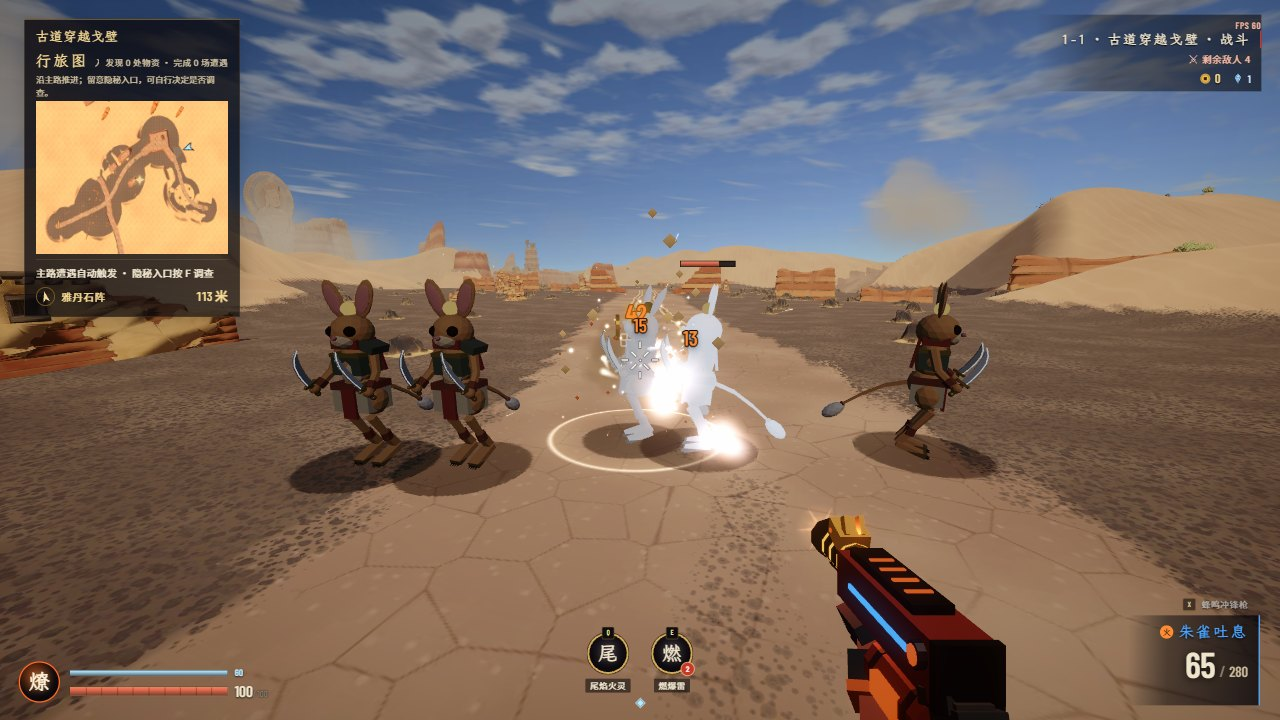
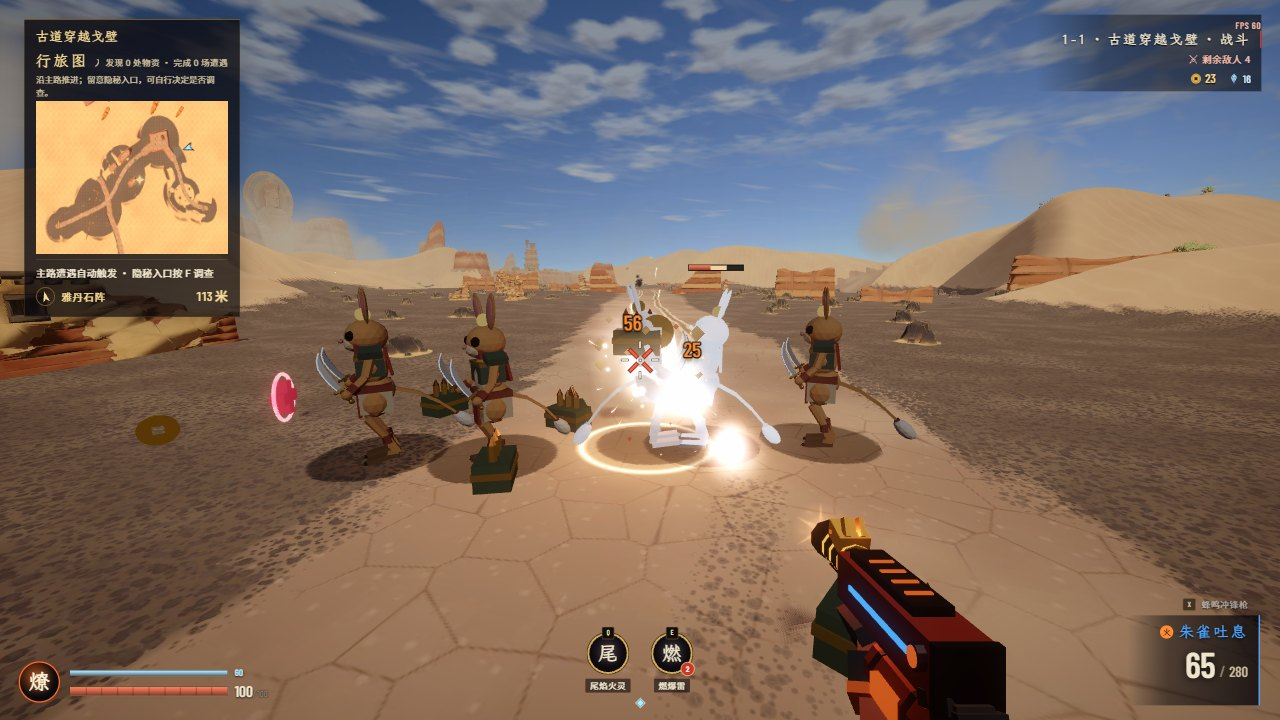
docs: M8 复审修正——4.6 记死亡传电选目标、格挡提示、货币叫法、rebase 后的对照测试改动；实机整轮 42 / 42
- 4.6：带电那行补 Unity Nearest 选目标；免疫那行补「格挡」提示与没被格挡的 0 伤害不弹字；新增第 7 条（master 的 unity-* 测试随改、todo 转断言）与第 8 条（货币叫灵石）
- 验证段落如实写：上一轮整轮是 38 / 39（喷火锥项改脚本后只单独重跑过），这一轮改过的脚本整轮重跑 42 / 42、零报错；npm test 1129 项 0 失败、todo 12 → 6
- 7.1 / 7.2：FireModeTests / Ch4Foundation / 秘卷 119 张；M13 不一致清单里落在 M8 的五条标 ✅，货币一行只剩 src/ui
- m8-shots 加三段：死亡传电选目标（7.4 m 传、8 m + 0.6 × 半径不传）、格挡浮字（截图 m8-blocked.jpg）、宝箱提示 / 奖励名写灵石；喷火锥截图随整轮重拍

diff --git a/docs/threejs-migration.md b/docs/threejs-migration.md
@@ -83,7 +83,7 @@ Unity 编辑器 ──bridge.sh webgameplay──▶ public/assets/unity-gamepla
 | M5 | 敌人框架增量 + 沙魇 + 第四章敌人并入主框架 | ~8k（多数是对照） | ✅ 2026-11-18（a1d71b84、b4d5e683、92dcc729），对照清单见 4.4：新增受击四层（`enemies/HitReaction.ts`）、迅捷龙卷（`EliteTornado.ts`）、出场位移（`SpawnEntrance.ts`，导演刷群接上）、词缀接管；照 Unity 改了出生 0.7 s 不可选中、击退推力 / 上抛、前摇 1/√攻速（35 处按最小比例）、名额回收死者、词缀取词过排除表、5 个敌人常量；沙魇照 SandWraithAI 重写（原来跑的是跳鼠刀兵的名册）；第四章经 `PlateauFoeAdapter` 接主框架（伤害倍率、全局名额、精英体型 / 金环 / 词缀、元素眩晕、减速、击退、脱战）。对照测试 `tests/enemy-framework.test.mjs`（常量读 C# 源码比）。待办：坠落回收照 Unity（等导航补高度）、EliteStrike / 金环纹样 / 词缀演出 / 变体着色（M11）、嘲讽（M9）、PerchPoint 导出 |
 | M6 | 首领框架 + 登场镜头 + 旱魃 + 魔将 v2 + 鲲鹏 / 麒麟数值阶段 + 三领主 | ~20k | 🔶 首领框架（`src/enemies/bosses/framework/`：BossDef 定档 / 阶段表、BossBrain、BossMove、破防条、召唤上限、领主梯度、倒下演出、时间缩放仲裁、关卡钩子）、登场演出导演（`bosses/intro/`）、旱魃全套 ✅ 2026-11-17（87cd9188…fed45ef1；对照测试 `tests/hanba-boss.test.mjs`、`tests/boss-intro.test.mjs`；实机脚本 `scripts/hanba/fight-shots.mjs`）。1-4 走进泉床正常触发（c33c5467）。火麒麟 / 鲲鹏 ✅ 2026-11-18（0c0168ff…07ebf638：火麒麟定档 28000 + 2400 护甲、85 / 70 / 55% 刻度、狂怒长啸 / 熔流轮转 / 鳞冠；鲲鹏定档 16000 + 4800 护盾、75 / 50 / 25% 鲲怒 / 化鹏 / 鹏狂怒；对照测试 `tests/qilin-boss.test.mjs`、`tests/kunpeng-boss.test.mjs`；实机脚本 `scripts/kunpeng/fight-shots.mjs`、火麒麟同目录）。魔将 v2 ✅ 2026-11-18（0d97befe…b288e282：九招、高台砸落登场、狂怒换挡、零星陨石，`WarlordPoser.ts` 按 Blender 姿势表在网页现场烘焙 v006 骨架的手 K 片段，释放帧等片段事件；对照测试 `tests/warlord-boss.test.mjs` 42 条；实机脚本 `scripts/warlord/fight-shots.mjs`）。2-4 / 3-3 走关卡正常触发：Unity 首领场（`boss:`）照 `BossEncounter.PlayerInArena` 不看视线；3-3 的矩形首领场半径盖到高台出生点。4-1 三领主进首领框架 + 据点模式 ✅ 2026-11-19（113789d6、f85f8715）：`src/enemies/bosses/lords/`——领主底座（LordDef 4-1 难度 3.4 定档、tempo 0.9 / 0.75 × 领主梯度；LordBrain 片段按设计时长拉伸、片段事件出手、顿帧只顿首领、招式驱动位移、弱点开关、死亡演出交给登场导演播；LordMove）；飞廉七招 + 擂台风 + 风雷珠珠碎 + 龙卷风柱（柱身可点火）+ 风涡柱；化蛇六招 + 圣湖游线 / 涨水面 / 泡水 / 漩涡 / 湿身雷殛；夔八招（不依赖雷暴的部分）+ 残鼓（导出位置错 112 m，挪回出生点）+ 召鼓，落雷 / 导体回劈 / 高原雷暴经 `lords/KuiStorm.ts` 的 `bindKuiStorm` 接 M7（`MechanismSystem` 建好雷暴后绑定，fc87b69b；4-1 实机：登场雷劈经幡杆、二阶段压暗下雨）；框架补破防条条件填充（BreakBarDef.fillWhen）。据点模式：`scripts/web/export-level-objectives.mjs` 从场景 YAML 导出 `objectives.json`（灵火坛 / LevelObjective / BossEncounter / ZheduoLevel 门槛圆），`src/world/objectives/`（SpiritAltar、LevelObjectives）——领主战不是终点战，倒下 6.3 s 后结算并点亮本据点灵火，6 座里点亮任意 3 座才清关开出口（4-3 同样 5 选 3）。对照测试 `tests/lord-bosses.test.mjs`（照 LordTests.cs）；实机脚本 `scripts/lords/fight-shots.mjs`。待办：夔的落雷 / 经幡杆带电与回劈 / 高原雷暴 / 召鼓充电（M7 合进来后 bindKuiStorm）；二阶段起带电（Charge.Hold，M8）；化蛇湿身灼烧减半（M8 状态）；飞廉的风接全局 WindField、顺风逆风步速（M7）；镜像片段 sidestepL / wheelR 与夔的 sink 没导出（退回 sidestep / wheel / kneel）；目标栏文字（界面）；邪飞天的和弦护盾 / 赐福；首领特效（旱魃日火贴花 / 水幕沙幕，鲲鹏浪墙 / 扶摇柱 / 水冠，火麒麟火浪，魔将火尾 / 火舌体积、`T_Boss_Warlord_E` 发光遮罩、登场转场风）随 M11b；鲲鹏 / 火麒麟换动画片段与首领顿帧随 M12；魔将熔铜渠涨落已接 3-3 神范台的熔铜渠（fc87b69b：引渠 + 每段 hazard 预警、倒下退渠；渠里冒泡 / 涌浪外观随 M11b） |
 | M7 | 地图机关：熔岩 v2、流沙 / 地表 / 边界 / 可破坏 / 断桥 / 风场、天气、各图专属脚本 | ~10k | 🔶 2026-11-19：导出（`scripts/web/export-mechanisms.mjs` 直接解析场景 YAML → `mechanisms.json` + 软边界距离场）、运行时（`src/world/mechanisms/`，UnitySceneView 搭好后建）、对照测试 `tests/unity-mechanisms.test.mjs`、实机脚本 `scripts/web/mechanism-shots.mjs` ✅；清单、差异与待办见 4.5 |
-| M8 | 玩家与战斗增量：战斗契约（灵宠伤害源、弱点倍率、命中区）、状态（寒意 / 引燃 / 日灼，带电随第四章）、弹体（弱点判定、护罩、落地滚动）、镜头手感 / 卡帧 / 安全落点 / 移动特效、武器（散布手调、冲刺禁射、喷火锥、磁轨光束）、技能（施法姿势、特效换风格） | ~12k | ✅ 2026-11-21（77c8389a、4cfc4480、edb3eca8、90a3aa72），对照清单见 4.6：战斗契约（灵宠伤害源只做类型与接口、弱点伤害 + 秘卷「破绽」、命中区、不可选中返回 immune 并节流派发受击事件）、带电 + 死亡传电 + 领主常驻带电、顿帧、多挡弹区 + 球罩、落地滚动、镜头手感（trauma² 震屏、受击冲击按来向、开枪一顿、阵亡倒地）、移动特效、坠落托回安全点、玩家减益（寒意 / 点燃 / 日晒，敌人侧入口已转过来）、武器（扳机闩、冲刺禁射、开镜规则、散布手调、镜头后坐 × 0.3 完全回正、光束共用冷却、喷火锥、贯虹虹光）、技能（施法姿势、拒绝事件、出手点、磐的挡弹罩 / 贴地起跳 / 锁冲刺）。焚雷扩散取最近 16 个。M13 对照测试对出、落在 M8 的五条全部照 Unity 改完（4.6「M13 对出的不一致」）。对照测试 `tests/m8-combat.test.mjs` / `m8-player.test.mjs` / `m8-weapons.test.mjs` / `m8-parity.test.mjs`（48 项，常量读 C# 源码比）；实机脚本 `scripts/web/m8-shots.mjs`。待办见 4.6 末尾 |
+| M8 | 玩家与战斗增量：战斗契约（灵宠伤害源、弱点倍率、命中区）、状态（寒意 / 引燃 / 日灼，带电随第四章）、弹体（弱点判定、护罩、落地滚动）、镜头手感 / 卡帧 / 安全落点 / 移动特效、武器（散布手调、冲刺禁射、喷火锥、磁轨光束）、技能（施法姿势、特效换风格） | ~12k | ✅ 2026-11-21（77c8389a、4cfc4480、edb3eca8、90a3aa72），对照清单见 4.6：战斗契约（灵宠伤害源只做类型与接口、弱点伤害 + 秘卷「破绽」、命中区、不可选中返回 immune 并节流派发受击事件）、带电 + 死亡传电 + 领主常驻带电、顿帧、多挡弹区 + 球罩、落地滚动、镜头手感（trauma² 震屏、受击冲击按来向、开枪一顿、阵亡倒地）、移动特效、坠落托回安全点、玩家减益（寒意 / 点燃 / 日晒，敌人侧入口已转过来）、武器（扳机闩、冲刺禁射、开镜规则、散布手调、镜头后坐 × 0.3 完全回正、光束共用冷却、喷火锥、贯虹虹光）、技能（施法姿势、拒绝事件、出手点、磐的挡弹罩 / 贴地起跳 / 锁冲刺）。焚雷扩散取最近 16 个。M13 对照测试对出、落在 M8 的五条全部照 Unity 改完（4.6「M13 对出的不一致」）。复审后（2b51eaee…）：死亡传电照 Unity `Nearest` 选目标、命中区整发格挡弹「格挡」、局内货币统一叫灵石（`src/ui` 除外）；rebase 到 master 后 `tests/unity-*.test.mjs` 七处随改、能转的 todo 转成断言。对照测试 `tests/m8-combat.test.mjs` / `m8-player.test.mjs` / `m8-weapons.test.mjs` / `m8-parity.test.mjs`（常量读 C# 源码比）；实机脚本 `scripts/web/m8-shots.mjs`。待办见 4.6 末尾 |
 | M9 | 灵宠（全新） | 4.1k | ⬜ |
 | M10 | 第一人称持枪手感 + 碎刃表现 | 5.8k | ⬜ |
 | M11a | 渲染观感：StylizedLit / Terrain / Foliage / Fur 着色、材质参数导入、后处理栈、三色环境光 / 雾 / 天空、CSM | 7.6k 着色器 | 🔶 材质 ✅ 2026-11-16（1f213358，`src/world/UnityStylizedLit.ts`：色阶、阴影染色、阶梯高光、边缘光、地形高度混合 / 宏观噪声 / 坡度压暗 / 陡坡三向投影、植被风摆与背光透射，Trilight 投成 SH 环境光）；太阳阴影照 Unity 管线（0564dd10，2048 贴图、90 m、跟相机）；云天 + 逆光光柱接入（52c719c6）；后处理栈 ✅ 2026-11-18（646f7eae，`src/render/PostStack.ts`：HDR 目标 + URP Bloom + 照 URP Color.hlsl 写的 Neutral + 每关 Volume 调色烘 LUT + 暗角 + 色差 + 低血 / 受击 / 冲刺玩法屏效；`scripts/web/export-volume-profiles.mjs` 从 27 份 Profile 导出 `volumes.json`，含 3-3 火神王座局部 Volume 的盒子混合；`?post=0` 或低画质绕开）。待办：AO、3-3 第一人称手被泛光吹白、1-2 比 Unity 偏灰（大气在 ACES 下调的，要按 Neutral 重调）、Fur、导出器补 `_ORMMap` / 关键字 / 地形材质参数、流动雾带与小活物逐图摆位 |
@@ -249,12 +249,12 @@ Unity 的九种雷魅是照网页 `world/plateau/play/foes.ts` 译的（`Plateau
 | 弱点规则 `WeakpointRule`：先进身体、往前 1.5 m 内穿过同一单位的弱点按弱点算（命中扫描、投射物同一条） | `EnemyBase.raycastHit`、`Projectiles` 的敌人命中、`HitZone.weakHit` | 🔧（原来是「身体明显更近才算身体」） |
 | 贴脸：射线起点在敌人胶囊里直接算命中 | `rayVerticalCapsule` 起点在圆柱内返回 0 | ✅ |
 | 暴击 / 属性乘区 / 雷殛标记 ×1.15 / 输出修饰器 / 分层 / 吸血上限 5%（≥ 2）/ 爆炸嵌套上限 6 / 爆炸波及玩家 | `Combat.ts`、`DamageCalc.ts`、`Blast.ts` | ✅ |
-| 免疫 `Combat.Immune`：打不可选中的敌人返回 `DamageResult.immune = true`（不结算），直接命中 0.4 s 节流地派发 `EnemyDamaged`；持续伤害跳伤 / 处决 / 0 伤害不提示；格挡掉全部伤害（total 0、blocked）也派发 | `Combat.damageEnemy` 第 0 步返回 `immune` 结果（原来返回 null、不派发）；`DamageResult.immune`；命中计数 / 引爆 / 词条 / 斩击 / 技能冲击波 / 反应的调用方跳过 immune；天雷引、引子三卷照 Unity 加「total > 0」 | 🔧（M13 对出） |
+| 免疫 `Combat.Immune`：打不可选中的敌人返回 `DamageResult.immune = true`（不结算），直接命中 0.4 s 节流地派发 `EnemyDamaged`；持续伤害跳伤 / 处决 / 0 伤害不提示；格挡掉全部伤害（total 0、blocked）也派发，`DamageNumbers` 弹「格挡」（`blocked && total < 1`，处决不弹）；没被格挡的 0 伤害不派发、不弹字 | `Combat.damageEnemy` 第 0 步返回 `immune` 结果（原来返回 null、不派发）；`DamageResult.immune`；命中计数 / 引爆 / 词条 / 斩击 / 技能冲击波 / 反应的调用方跳过 immune；天雷引、引子三卷照 Unity 加「total > 0」；`Feedback.blocked` 弹「格挡」（`DamageNumberOpts` 没有这一种，按世界浮字出），没被格挡的 0 伤害原来弹「免疫」、现在不弹 | 🔧（M13 对出；格挡提示复审补） |
 | 焚雷扩散灼烧 `CombatTuning.Thunderfire.SpreadTargets = 16`：身体中心在 R 内、按距离取最近 16 个（C# 注释写明是有意改的） | `Reactions.runThunderfire`、`TF_SPREAD_TARGETS` | 🔧（原来半径内全部；M13 对出） |
 | 击杀结算 `KillResolver`：精英魂晶 ×5、首领 60、精英死亡震屏（半径 2、×0.8）、静默处决没有战果 | `Combat.ts` | ✅ |
 | 状态 `Burn / Shock / Corrode / Stun / Slow` 与四种反应、引爆 / 崩解、预算（`CombatTuning.cs`） | `Status.ts`、`Reactions.ts` | ✅ 数值逐项读 C# 比 |
 | `StatusId` 一个枚举 8 项 + `StatusRegistry` 按宿主登记（寒意 / 日晒 / 点燃只挂玩家） | 敌人 `StatusId`（5 项）+ 玩家 `PlayerStatusId`（3 项，`player/PlayerStatus.ts`） | 结构不同、集合相同（`tests/m8-parity.test.mjs` 锁住） |
-| 带电 `Charge` / `ChargeState`：计时取较大者、常驻持有、就反应而言 = 有雷殛、死亡向 8 m 内最近 2 个同伴传电（带电 6 s、6 点雷伤、深度 1），连锁 ≤ 4 跳，首领不接不放 | `combat/Charge.ts`（`ChargeBook` / `ChargeSystem`），`Reactions` 经 `host.isCharged` 读 | ➕ |
+| 带电 `Charge` / `ChargeState`：计时取较大者、常驻持有、就反应而言 = 有雷殛、死亡向 8 m 内最近 2 个同伴传电（带电 6 s、6 点雷伤、深度 1），连锁 ≤ 4 跳，首领不接不放；选目标 `ReactionSystem.Nearest(c, 8, ArcTargets + 2)`：身体中心 ≤ 8 m（不加敌人半径），只看最近 4 个候选、首领占名额再跳过 | `combat/Charge.ts`（`ChargeBook` / `ChargeSystem`，选目标 `arcCandidates`），`Reactions` 经 `host.isCharged` 读 | ➕；选目标复审时照 `Nearest` 改（原来按 `queryRadius` 的「8 m + 半径」、在全部候选里取） |
 | 同上：夔一直带电；飞廉二阶段起、风雷珠在时带电；高原敌自己的带电 | `lords/Kui.ts`、`lords/Feilian.ts`（鸭子类型拿 `ctx.combat.charge`）、`PlateauFoeAdapter.foeCharged` | ➕ |
 | 同上：落雷把落点敌人充上电（`LightningStrike` → `Charge.Apply`） | `world/mechanisms/Storm.ts` 仍挂雷殛 | ⬜ 那个目录本期不能改：把第 204 行换成 `chargeSystem(ctx)?.apply(e, o.chargeFoes)` 即可 |
 | 同上：边缘光换紫红雷光 + 贴身短电弧 | 贴身紫红小电火花（全场每秒 14 下） | ⬜ 边缘光随 M11b |
@@ -316,18 +316,20 @@ Unity 的九种雷魅是照网页 `world/plateau/play/foes.ts` 译的（`Plateau
 | 技能特效「换风格」（HC3：卡通火苗、纸灰地火、去掉叠在爆炸上的闪光） | 网页自己的分层特效（fx-style 第五节：法印、火舌、炭火） | 保留网页：同一份准则下各做的一版，换粒子引擎时一起对（M11b） |
 | 身体被锁（下沉、硬直）时不能放技能 | 无 | ⬜ 网页的下沉在 M7 的 SafeGround 里，没有统一的身体锁；随 M11d 的输入门 |
 
-**M13 对出的不一致（本期改法，master 上 `tests/unity-*.test.mjs` 的 todo 合并后可转断言）**：
+**M13 对出的不一致（本期改法；rebase 到 master 后 `tests/unity-*.test.mjs` 的对应断言与 todo 一并改好，见第 7 条）**：
 
-1. 弱点伤害%：`StatKey` 加 `weakpointDamagePct`，`Combat.damageEnemy` 弱点（含白泽改判）另乘它（77c8389a）；`defsOffense.ts` 表尾加「破绽」`weak_point`（精良、3 层、`['暴击']`、「弱点伤害每层 +15%。」），秘卷 118 → 119 张，进攻 24 → 25 张（前 24 张顺序不动）。`unity-scrolls` 的「Unity 多一张」断言、`unity-damage-calc` 的「网页缺 weakpointDamagePct / petDamagePct」断言要随之改成「两边相同」。
+1. 弱点伤害%：`StatKey` 加 `weakpointDamagePct`，`Combat.damageEnemy` 弱点（含白泽改判）另乘它（77c8389a）；`defsOffense.ts` 表尾加「破绽」`weak_point`（精良、3 层、`['暴击']`、「弱点伤害每层 +15%。」），秘卷 118 → 119 张（`DESIGN.md` 第 10 节同步），进攻 24 → 25 张（前 24 张顺序不动）。
 2. 灵宠伤害源：`DamageSource` 加 `'pet'`、`StatKey` 加 `petDamagePct`；`isPetHit` 时属性只乘 `petDamagePct`、不掷随机暴击（`forceCrit` 照常），见 `combat/PetContract.ts`（77c8389a）。
-3. 免疫提示：`Combat.damageEnemy` 打不可选中的敌人返回 `{ immune: true, dealt: 0, isCrit: false, killed: false, layer: 'health' }`（原来返回 null），直接命中按 `IMMUNE_FEEDBACK_GAP = 0.4` s / 敌人节流，放行的那一次弹「免疫」并派发 `enemy:damaged`；持续伤害跳伤 / 处决 / 0 伤害不提示；整发被命中区格挡（effective 0、blocked）也派发（Unity `total > 0 || immune || blocked`）。`DamageResult` 加 `immune?`。用返回值算命中的调用方（爆炸、技能冲击波、碎刃斩击 / 刃群、满蓄引爆、反应 `hit()`、封脉导流）跳过 immune；武器词条 `AffixEffects.onDamaged` 照 Unity 跳过 immune；天雷引、引子三卷照 Unity 加「total > 0」。已死的敌人仍返回 null（Unity `default`）。
+3. 免疫提示：`Combat.damageEnemy` 打不可选中的敌人返回 `{ immune: true, dealt: 0, isCrit: false, killed: false, layer: 'health' }`（原来返回 null），直接命中按 `IMMUNE_FEEDBACK_GAP = 0.4` s / 敌人节流，放行的那一次弹「免疫」并派发 `enemy:damaged`；持续伤害跳伤 / 处决 / 0 伤害不提示；整发被命中区格挡（effective 0、blocked）也派发（Unity `total > 0 || immune || blocked`）。`DamageResult` 加 `immune?`。用返回值算命中的调用方（爆炸、技能冲击波、碎刃斩击 / 刃群、满蓄引爆、反应 `hit()`、封脉导流）跳过 immune；武器词条 `AffixEffects.onDamaged` 照 Unity 跳过 immune；天雷引、引子三卷照 Unity 加「total > 0」。已死的敌人仍返回 null（Unity `default`）。复审补：整发被格挡弹「格挡」不弹「免疫」，没被格挡的 0 伤害不派发不弹字（同 Unity）；「免疫不算命中」的测试改成真调用（爆炸 / 冲击波 / 封脉导流 / 反应打中心 / 满蓄引爆 / 词条 / 刃群，逐个把 `!r.immune` 改回去都会红）。
 4. 玩家减益：寒意 / 点燃 / 日晒在 `player/PlayerStatus.ts`（4cfc4480）。Unity 是一个 `StatusId`（8 项）+ 按宿主登记，网页是敌人 `StatusId`（5 项）+ 玩家 `PlayerStatusId`（3 项），集合相同；`ChillTakesStrongest…` / `IgniteTicks…` 在 `m8-player.test.mjs`，`SunburnStacks…` 在 `hanba-boss.test.mjs`，`EveryStatusHasOneDefinition` 的对应断言在 `m8-parity.test.mjs`。
-5. 焚雷扩散灼烧：`Reactions.runThunderfire` 照 `ReactionSystem.Nearest` 取身体中心在 R 内、按距离最近的 `TF_SPREAD_TARGETS = 16` 个（原来半径内全部，且按 queryRadius 的「R + 敌人半径」算）。
+5. 焚雷扩散灼烧：`Reactions.runThunderfire` 照 `ReactionSystem.Nearest` 取身体中心在 R 内、按距离最近的 `TF_SPREAD_TARGETS = 16` 个（原来半径内全部，且按 queryRadius 的「R + 敌人半径」算）。带电死亡传电的选目标是同一类偏差，复审时一并照 `Nearest` 改了（上表带电那行）。
 6. 解析结果的弹速：不改，见武器表最后一行。
+7. rebase 到 master（23b57e73）后 master 的对照测试随改：`package.json` 的 `"test"` 取两边测试文件的并集；`unity-damage-calc` 的免疫用例照 Unity `ImmuneFeedbackIsThrottledAndSkipsDots` 断言 immune 结果、0.4 s 节流、跳伤不提示，Stat 枚举两边一项不差，属性乘区补灵宠来源 / 标签，弱点另乘弱点伤害%、灵宠不随机暴击，寒意 / 点燃 / 日晒 / `EveryStatusHasOneDefinition` 四条 todo 照 CombatPipelineTests 转成断言；`unity-scrolls` 119 张、两边 id 集合相同，手抄进攻表比前 24 张（「破绽」在表尾），「破绽」todo 转成断言；`unity-reactions` 的焚雷 todo 转成断言；`unity-fire-modes` 改读 `FireControl.WEAPON_TIMING` / `chargeMult` / `switchPose` 比数值（顺带迁了 `SwitchPoseHolstersThenDraws`），并确认 `WeaponSystem` 引用的是这份常量（换弹最短时间也改用 `WEAPON_TIMING.MinReload`）。
+8. 局内货币叫法（D13）：`core/Stats` 的 `coinGainPct`「灵石获取」、财富天赋「每级灵石获取 +8%」、宝箱提示「一大堆灵石」（精英关「（精英加成）」，同 `CoinsReward.Line`；Unity 首领档也写精英加成但 `ChestCoins` 只给精英 ×1.4，这里按实际发放只在精英关标）、`RunPlan` 奖励名「灵石」、商店「灵石不足」、强化 / 秘卷满层「改为灵石」，逐条对 Unity 原文（`m8-parity`）。`src/ui` 里的「金币」归界面分支。
 
-**验证**：`npm run typecheck`；`npm test` 全套（失败的只有第 8 节第 3 条那 23 个旧 LOD 测试，外加 `frost-tanks` 的「xuangui: shell spin bounces at most twice」偶发失败——分支起点上跑 15 次也挂 2 次，和本期无关）；实机（1-1，`?debug&dev&debugStage=1-1`，无头浏览器，`node scripts/web/m8-shots.mjs 5711`）逐把武器（21 把）按住开火、冲刺禁射、开镜、喷火锥、贯虹、后坐回正、玩家减益、带电 / 焚雷、免疫、「破绽」、三个英雄的 Q / E 与拒绝事件、磐的挡弹罩，39 项全过、零报错（喷火锥那项原来平视开火、细锥从跳鼠头顶擦过，改成准星压到胸口、头几跳就读，`M8_ONLY=flamer` 单独重跑通过），截图 `docs/art/review/threejs-migration/m8-*.jpg`。
+**验证**：rebase 到 master（23b57e73）后 `npm run typecheck` 通过；`npm test` 全套 1129 项、0 失败、6 条 todo（master 是 12 条，转掉的 6 条见第 7 条）。实机（1-1，`?debug&dev&debugStage=1-1`，无头浏览器，`node scripts/web/m8-shots.mjs 5711`）：逐把武器（21 把）按住开火、冲刺禁射、开镜、喷火锥、贯虹、后坐回正、玩家减益、带电 / 焚雷、死亡传电选目标（7.4 m 的传、8.27 m 的不传）、格挡浮字、货币叫法、免疫、「破绽」、三个英雄的 Q / E 与拒绝事件、磐的挡弹罩——复审后整轮重跑 42 / 42、零报错（上一轮整轮是 38 / 39：喷火锥那项平视开火、细锥从跳鼠头顶擦过，改成准星压到胸口、头几跳就读之后只单独重跑过；这一轮是改过的脚本整轮跑），截图 `docs/art/review/threejs-migration/m8-*.jpg`（`m8-blocked.jpg` 是格挡浮字）。
 
-**待办**：`Storm.ts` 落雷充电换成 Charge（上表）；`DESIGN.md` 第 10 节「当前共 118 个」秘卷数随「破绽」变 119；喷火锥枪口到锥中段的火舌在亮沙地上几乎看不见（只有锥末堆起的白热团），正式火焰外观随 M11b；HUD 订阅 `skill:denied`、状态图标读 `player.status`（M11c）；带电 / 喷火 / 虹光的正式外观（M11b）；枪模后坐缩放与转轮亮闪（M10）；手柄瞄准辅助。
+**待办**：`Storm.ts` 落雷充电换成 Charge（上表）；喷火锥枪口到锥中段的火舌在亮沙地上几乎看不见（只有锥末堆起的白热团），正式火焰外观随 M11b；HUD 订阅 `skill:denied`、状态图标读 `player.status`（M11c）；`DamageNumberOpts` 加「格挡」这一种、按 Unity 的数字样式（`Kind.Blocked`）画，现在按世界浮字（带框）出（M11c）；`src/ui` 里的「金币」（界面）；带电 / 喷火 / 虹光的正式外观（M11b）；枪模后坐缩放与转轮亮闪（M10）；手柄瞄准辅助；FireModeTests 其余 29 条行为用例要给 WeaponSystem 做假输入 / 假弹道夹具。
 
 ## 5. Unity 能力 → 网页对照
 
@@ -382,17 +384,17 @@ Unity 的九种雷魅是照网页 `world/plateau/play/foes.ts` 译的（`Plateau
 | AffixTests、AffixTriggerTests、LegendaryTests | ✅ M13 | `tests/unity-affixes.test.mjs`：词条表 / 准入 / 文本逐条读 `Weapons/Affixes/**`、`Weapons/Legendaries/**`，抽取分布，AffixEffects 的触发与传说运行时。没迁：开火钩子那几条（天命每第 N 发、终焉末发 ×3、无尽不耗弹——在 WeaponSystem 的开火状态机里，随 FireMode 等 M8）、词条跨关保留（AffixesSurviveStageChange） |
 | WeaponStatsTests | ✅ M13 | `tests/unity-weapon-stats.test.mjs`：解析器逐项、强化费用、各章稀有度 / 幸运 / 随机元素 / 掉落权重、奖励串 `weapon:<id>:<品质>` / `weapon:min=N`（解析 / 档位保底 / 提示，2026-11-21 补上） |
 | WeaponDescriberTests | ✅ M13 | `tests/unity-weapon-describe.test.mjs` |
-| ScrollRuntimeTests、ScrollOffenseTests、ScrollElementTests、ScrollUtilityTests、ScrollLegendTests、ScrollReactionTests | 🔶 M13 | `tests/unity-scrolls.test.mjs`：118 张的定义逐张对 `Progression/Scrolls/**`、Unity 测试里的数据表、属性卷（Unity 的 (Stat, 每层值) 装进网页逐张比）、抽取权重与 10 万次抽样、procScale、条件增伤四卷、元素弹三卷、传说卷的属性部分。没迁：其余各卷的触发行为（Unity 侧约 4000 行，靠 ScrollScope / ElementKit / TacticsKit 的假宿主驱动；网页要逐卷用真 Combat 搭场景）、ScrollRuntime 里 Unity 独有的部分（作用域钩子的装卸残留、Describe 的 `{s0}` / `{t0}` 模板、沙盒、读档——读档等 M11d）；经济那几条已在 `unity-combat-director` |
+| ScrollRuntimeTests、ScrollOffenseTests、ScrollElementTests、ScrollUtilityTests、ScrollLegendTests、ScrollReactionTests | 🔶 M13 | `tests/unity-scrolls.test.mjs`：119 张的定义逐张对 `Progression/Scrolls/**`、Unity 测试里的数据表、属性卷（Unity 的 (Stat, 每层值) 装进网页逐张比）、抽取权重与 10 万次抽样、procScale、条件增伤四卷、元素弹三卷、传说卷的属性部分。没迁：其余各卷的触发行为（Unity 侧约 4000 行，靠 ScrollScope / ElementKit / TacticsKit 的假宿主驱动；网页要逐卷用真 Combat 搭场景）、ScrollRuntime 里 Unity 独有的部分（作用域钩子的装卸残留、Describe 的 `{s0}` / `{t0}` 模板、沙盒、读档——读档等 M11d）；经济那几条已在 `unity-combat-director` |
 | ScrollTacticsTests | ➖ | `tests/scroll-tactics.test.mjs`（23 条，Unity 那份从它移植）；定义表另在 `unity-scrolls` 里对过 |
 | EliteAffixTests | ✅ M13 / M5 | `tests/unity-elite-affixes.test.mjs`（登记 / 随机 / 四种词缀的数 / 龙卷表）+ `tests/enemy-framework.test.mjs`（龙卷扫掠）。头顶血条标签、金环、名字前缀属界面（M11c） |
 | EncounterTests | 🔶 M13 | 站位角色的到场延迟、锚点加分（含高台 / Auto，2026-11-21 补上；选点行为在 `encounters`）、精英体型在 `tests/unity-elite-affixes.test.mjs`。EncounterSpec v2（Of / Wave / E、Promote、FromSquads / ToSquads、BandFor）、SquadAffixes.Resolve 网页没有实现——等 M4 待办「EncounterSite v2 其余部分」。网页旧的波次编排另有 `tests/encounters.test.mjs` |
 | InfernoSquadsTests | ⬜ M4 | 网页没有 InfernoSquads / EncounterSpec（同上） |
-| FireModeTests | 🔶 M13 | `tests/unity-fire-modes.test.mjs` 只锁了计时常量和蓄力曲线（读两边源码）。35 条行为用例没迁：网页的状态机在 WeaponSystem 单体里、M8 正在改，落定后迁 |
+| FireModeTests | 🔶 M13 / M8 | `tests/unity-fire-modes.test.mjs`：计时常量、蓄力曲线、切枪姿态（`FireControl.ts` 直接 import 比数值，确认 `WeaponSystem` 引用它）；扳机闩 / 冲刺禁射在 `m8-weapons`。其余 29 条行为用例没迁：状态机还在 WeaponSystem 单体里，要做假输入 / 假弹道夹具 |
 | WeaponSpecialsTests | ⬜ M8 | 定义已在 `unity-defs-parity`；机制（穿透、蛊种、蓄力、轮转、双管逐发）靠状态机驱动，同 FireMode |
 | RunRouteTests、RunPlanTests | ✅ M3 | `tests/unity-run-route.test.mjs` |
 | CombatDirectorTests | ✅ M4 | `tests/unity-combat-director.test.mjs`（含 ScrollRuntime 的经济几条、BalanceModel 的击杀奖励） |
 | EnemyFrameworkTests | ✅ M5 | `tests/enemy-framework.test.mjs` |
-| Ch4FoundationTests | 🔶 M5 / M6 / M7 | 受击四层在 `enemy-framework`，破防条 / BossDef 缺省 / 领主梯度在 `hanba-boss`，导体与落雷在 `unity-mechanisms`；「带电」状态等 M8（状态：带电随第四章） |
+| Ch4FoundationTests | 🔶 M5 / M6 / M7 | 受击四层在 `enemy-framework`，破防条 / BossDef 缺省 / 领主梯度在 `hanba-boss`，导体与落雷在 `unity-mechanisms`；带电（计时 / 持有 / 死亡传电选目标）在 `m8-combat` |
 | PlateauFoesTests | 🔶 M5 | 招式表（PlateauMoves ↔ defineMoves）在 `enemy-framework`；其余雷魅契约没迁（`src/enemies/plateau` 归 M12 在改） |
 | HanbaBalanceTests | ✅ M6 | `tests/hanba-boss.test.mjs` |
 | WarlordBalanceTests、WarlordSwordTests、WarlordDashTests、WarlordVfxTests | ✅ M6 | `tests/warlord-boss.test.mjs` |
@@ -422,12 +424,12 @@ Unity 的九种雷魅是照网页 `world/plateau/play/foes.ts` 译的（`Plateau
 
 | 项 | Unity | 网页 | 文件 |
 |---|---|---|---|
-| 弱点伤害% 与进攻卷「破绽」weak_point | 命中弱点另乘 `Stat.WeakpointDamagePct`（`Combat.cs`）；「破绽」精良、3 层、弱点伤害每层 +15% | StatKey 没有 `weakpointDamagePct`，`Combat.damageEnemy` 只乘 `enemy.weakpointDamageMult`，也没有这张卷 | `src/core/types.ts`、`src/combat/Combat.ts`、`src/progression/scrolls/defsOffense.ts`（M8 战斗契约） |
-| 灵宠伤害源 | `DamageSource.Pet` 只吃 `Stat.PetDamagePct`、不随机暴击 | DamageSource 没有 pet，StatKey 没有 `petDamagePct` | `src/core/types.ts`、`src/combat/DamageCalc.ts`（M8 / M9） |
-| 免疫提示事件 | 打不可选中的敌人返回 `DamageResult.immune = true` 并转发 EnemyDamaged（0.4 s 节流） | `Combat.damageEnemy` 返回 null、不派发 `enemy:damaged`，只让 HitFeedback 弹字 | `src/combat/Combat.ts` |
-| 玩家减益 寒意 / 引燃 / 日灼 | CombatPipelineTests 里有四条 | StatusId 只有 burn / shock / corrode / stun / slow | `src/combat/Status.ts`（M8） |
-| 焚雷扩散灼烧的目标数 | `CombatTuning.Thunderfire.SpreadTargets = 16`（按距离取最近 16 个，Unity 注释写明是有意改的） | `runThunderfire` 点燃半径内全部 | `src/combat/Reactions.ts` |
-| ✅ 货币叫法 | 点金手 / 赏金 / 聚宝盆 / 贪婪之心写「灵石」 | 2026-11-21 秘卷定义（含聚宝盆提示）改成灵石。秘卷以外还写「金币」的：`src/ui`（`labels.ts` coins / gold、`SummaryScreen.ts`、`css/hud.css`「金币不足」）、`core/Stats.ts` 属性名「金币获取」、`progression/Meta.ts` 财富天赋、`Loot.ts` / `loot/Chests.ts` / `loot/Shop.ts` / `RunPlan.ts` 的提示与奖励名，没动 | `defsUtility.ts`、`defsLegend.ts` |
+| ✅ 弱点伤害% 与进攻卷「破绽」weak_point | 命中弱点另乘 `Stat.WeakpointDamagePct`（`Combat.cs`）；「破绽」精良、3 层、弱点伤害每层 +15% | 2026-11-21 M8 改（4.6 第 1 条）：原来 StatKey 没有 `weakpointDamagePct`、也没有这张卷 | `src/core/types.ts`、`src/combat/Combat.ts`、`src/progression/scrolls/defsOffense.ts`（M8 战斗契约） |
+| ✅ 灵宠伤害源 | `DamageSource.Pet` 只吃 `Stat.PetDamagePct`、不随机暴击 | 2026-11-21 M8 改（4.6 第 2 条）：原来 DamageSource 没有 pet，StatKey 没有 `petDamagePct` | `src/core/types.ts`、`src/combat/DamageCalc.ts`（M8 / M9） |
+| ✅ 免疫提示事件 | 打不可选中的敌人返回 `DamageResult.immune = true` 并转发 EnemyDamaged（0.4 s 节流） | 2026-11-21 M8 改（4.6 第 3 条）：原来返回 null、不派发 `enemy:damaged`；格挡提示一并照 Unity | `src/combat/Combat.ts` |
+| ✅ 玩家减益 寒意 / 引燃 / 日灼 | CombatPipelineTests 里有四条 | 2026-11-21 M8 改（4.6 第 4 条）：`player/PlayerStatus.ts`，四条已转成断言 | `src/combat/Status.ts`（M8） |
+| ✅ 焚雷扩散灼烧的目标数 | `CombatTuning.Thunderfire.SpreadTargets = 16`（按距离取最近 16 个，Unity 注释写明是有意改的） | 2026-11-21 M8 改（4.6 第 5 条）：原来点燃半径内全部 | `src/combat/Reactions.ts` |
+| ✅ 货币叫法 | 点金手 / 赏金 / 聚宝盆 / 贪婪之心写「灵石」 | 2026-11-21 秘卷定义（含聚宝盆提示）改成灵石。M8 又把 `core/Stats.ts` 属性名、`progression/Meta.ts` 财富天赋、`Loot.ts` / `loot/Chests.ts` / `loot/Shop.ts` / `RunPlan.ts` 的提示与奖励名改成灵石（4.6 第 8 条）。还写「金币」的只剩 `src/ui`（`labels.ts` coins / gold、`SummaryScreen.ts`、`css/hud.css`「金币不足」），归界面 | `defsUtility.ts`、`defsLegend.ts` |
 | ✅ 战鼓 | 「每处据点开战时」 | 2026-11-21 改：听新事件 `encounter:started`（StageDirector 在一场遭遇第一波开始时报一次，首领战不报，= EncounterSite.Activate → EncounterStarted） | `defsUtility.ts`、`StageDirector.ts`、`core/types.ts` |
 | ✅ 回春的描述 | 「恢复速度每层 +8/秒」 | 2026-11-21 改 | `defsUtility.ts` |
 | ✅ 功能卷标签顺序 | 主标签在前：灵盾 / 回春「护盾, 生存」、收割「击杀, 生存」、摄魂「击杀, 护盾」 | 2026-11-21 改 | `defsUtility.ts` |
